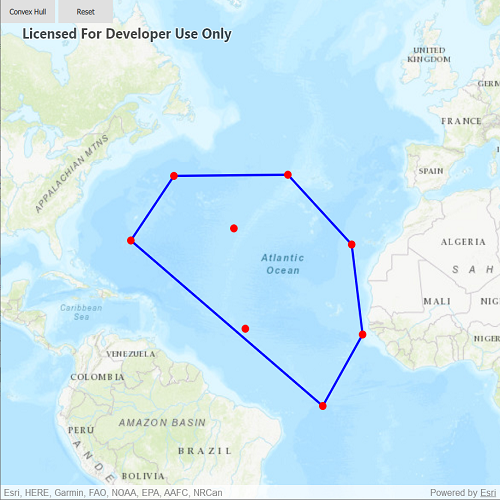
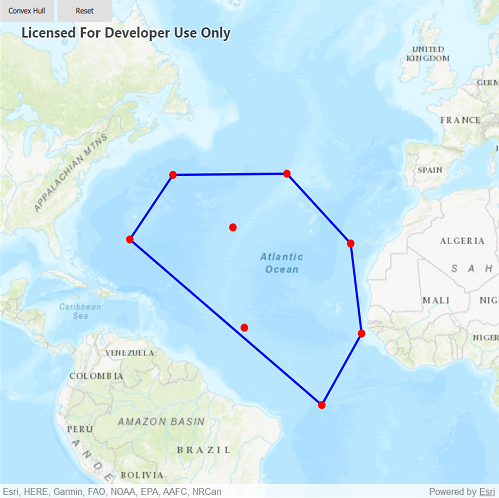
pr changes

diff --git a/ArcGISRuntimeSDKQt_QMLSamples/Geometry/ConvexHull/ConvexHull.qml b/ArcGISRuntimeSDKQt_QMLSamples/Geometry/ConvexHull/ConvexHull.qml
@@ -63,12 +63,6 @@ Rectangle {
             }
         }
 
-        // stores clicked points
-        PointCollection {
-            id: inputs
-            spatialReference: mapView.spatialReference
-        }
-
         MultipointBuilder {
             id: multipointBuilder
             spatialReference: mapView.spatialReference
@@ -76,11 +70,8 @@ Rectangle {
 
         onMouseClicked: {
             var clickedPoint = mapView.screenToLocation(mouse.x, mouse.y);
-            inputsGraphic.geometry = clickedPoint;
-            inputs.addPoint(clickedPoint);
-            multipointBuilder.points = inputs;
+            multipointBuilder.points.addPoint(clickedPoint);
             inputsGraphic.geometry = multipointBuilder.geometry;
-            console.log(inputs.size);
         }
 
         RowLayout {
@@ -90,8 +81,8 @@ Rectangle {
             }
 
             Button {
-                width: implicitWidth
-                height: implicitHeight
+                Layout.fillWidth: true
+                Layout.fillHeight: true
                 text: "Convex Hull"
 
                 // display the convex hull
@@ -101,10 +92,11 @@ Rectangle {
                         convexHullGraphic.symbol = markerSymbol;
                     } else if (convHull.geometryType === Enums.GeometryTypePolyline) {
                         convexHullGraphic.symbol = lineSymbol;
-                        console.log("polyline");
                     } else if (convHull.geometryType === Enums.GeometryTypePolygon) {
                         convexHullGraphic.symbol = fillSymbol;
-                        console.log("polygon");
+                    }
+                    else {
+                        console.warn("Not a valid geometry");
                     }
 
                     convexHullGraphic.geometry = convHull;
@@ -112,12 +104,12 @@ Rectangle {
             }
 
             Button {
-                width: implicitWidth
-                height: implicitHeight
+                Layout.fillWidth: true
+                Layout.fillHeight: true
                 text: "Reset"
 
                 onClicked: {
-                    inputs.removeAll();
+                    multipointBuilder.points.removeAll();
                     inputsGraphic.geometry = null;
                     convexHullGraphic.geometry = null;
                 }

diff --git a/ArcGISRuntimeSDKQt_CppSamples/Geometry/ConvexHull/ConvexHull.qml b/ArcGISRuntimeSDKQt_CppSamples/Geometry/ConvexHull/ConvexHull.qml
@@ -25,7 +25,6 @@ Item {
     MapView {
         id: view
         anchors.fill: parent
-
         RowLayout {
             anchors {
                 left: parent.left

diff --git a/ArcGISRuntimeSDKQt_CppSamples/Geometry/ConvexHull/ConvexHull.cpp b/ArcGISRuntimeSDKQt_CppSamples/Geometry/ConvexHull/ConvexHull.cpp
@@ -70,14 +70,18 @@ void ConvexHull::displayConvexHull()
   {
     m_convexHullGraphic->setSymbol(m_fillSymbol);
   }
+  else
+  {
+    qWarning("Not a valid geometry.");
+  }
 
   m_convexHullGraphic->setGeometry(convexHull);
-  return;
 }
 
 void ConvexHull::clearGraphics()
 {
-  m_inputs.clear();
+//  m_inputs.clear();
+  m_multipointBuilder->points()->removeAll();
   m_inputsGraphic->setGeometry(Geometry());
   m_convexHullGraphic->setGeometry(Geometry());
 }
@@ -105,17 +109,14 @@ void ConvexHull::setupGraphics()
 void ConvexHull::getInputs()
 {
   // show clicked points on MapView
-  connect(m_mapView, &MapQuickView::mouseClicked, this, [this](QMouseEvent& e){
+  connect(m_mapView, &MapQuickView::mouseClicked, this, [this](QMouseEvent& e)
+  {
     e.accept();
 
     const Point clickedPoint = m_mapView->screenToLocation(e.x(), e.y());
-    m_inputs.push_back(clickedPoint);
-
-    PointCollection* pointCollection = new PointCollection(m_mapView->spatialReference(), this);
-    pointCollection->addPoints(m_inputs);
-    MultipointBuilder* multipointBuilder = new MultipointBuilder(m_mapView->spatialReference(), this);
-    multipointBuilder->setPoints(pointCollection);
-    m_inputsGraphic->setGeometry(multipointBuilder->toGeometry());
+    m_multipointBuilder->points()->addPoint(clickedPoint.x(), clickedPoint.y());
+    qDebug() << m_multipointBuilder->points()->size();
+    m_inputsGraphic->setGeometry(m_multipointBuilder->toGeometry());
   });
 }
 
@@ -127,6 +128,7 @@ void ConvexHull::setMapView(MapQuickView* mapView)
 
   m_mapView = mapView;
   m_mapView->setMap(m_map);
+  m_multipointBuilder = new MultipointBuilder(m_mapView->spatialReference(), this);
 
   getInputs();
 

diff --git a/ArcGISRuntimeSDKQt_CppSamples/Geometry/ConvexHull/ConvexHull.h b/ArcGISRuntimeSDKQt_CppSamples/Geometry/ConvexHull/ConvexHull.h
@@ -25,7 +25,7 @@ class Graphic;
 class GraphicsOverlay;
 class Map;
 class MapQuickView;
-class Point;
+class MultipointBuilder;
 class SimpleFillSymbol;
 class SimpleLineSymbol;
 class SimpleMarkerSymbol;
@@ -34,8 +34,6 @@ class SimpleMarkerSymbol;
 
 #include <QObject>
 #include <QList>
-
-#include "Point.h"
 
 class ConvexHull : public QObject
 {
@@ -65,13 +63,13 @@ private:
   Esri::ArcGISRuntime::Map* m_map = nullptr;
   Esri::ArcGISRuntime::MapQuickView* m_mapView = nullptr;
 
-  QList<Esri::ArcGISRuntime::Point> m_inputs;
   Esri::ArcGISRuntime::Graphic* m_inputsGraphic = nullptr;
   Esri::ArcGISRuntime::Graphic* m_convexHullGraphic = nullptr;
   Esri::ArcGISRuntime::GraphicsOverlay* m_graphicsOverlay = nullptr;
   Esri::ArcGISRuntime::SimpleFillSymbol* m_fillSymbol = nullptr;
   Esri::ArcGISRuntime::SimpleLineSymbol* m_lineSymbol = nullptr;
   Esri::ArcGISRuntime::SimpleMarkerSymbol* m_markerSymbol = nullptr;
+  Esri::ArcGISRuntime::MultipointBuilder* m_multipointBuilder = nullptr;
 };
 
 #endif // CONVEXHULL_H
